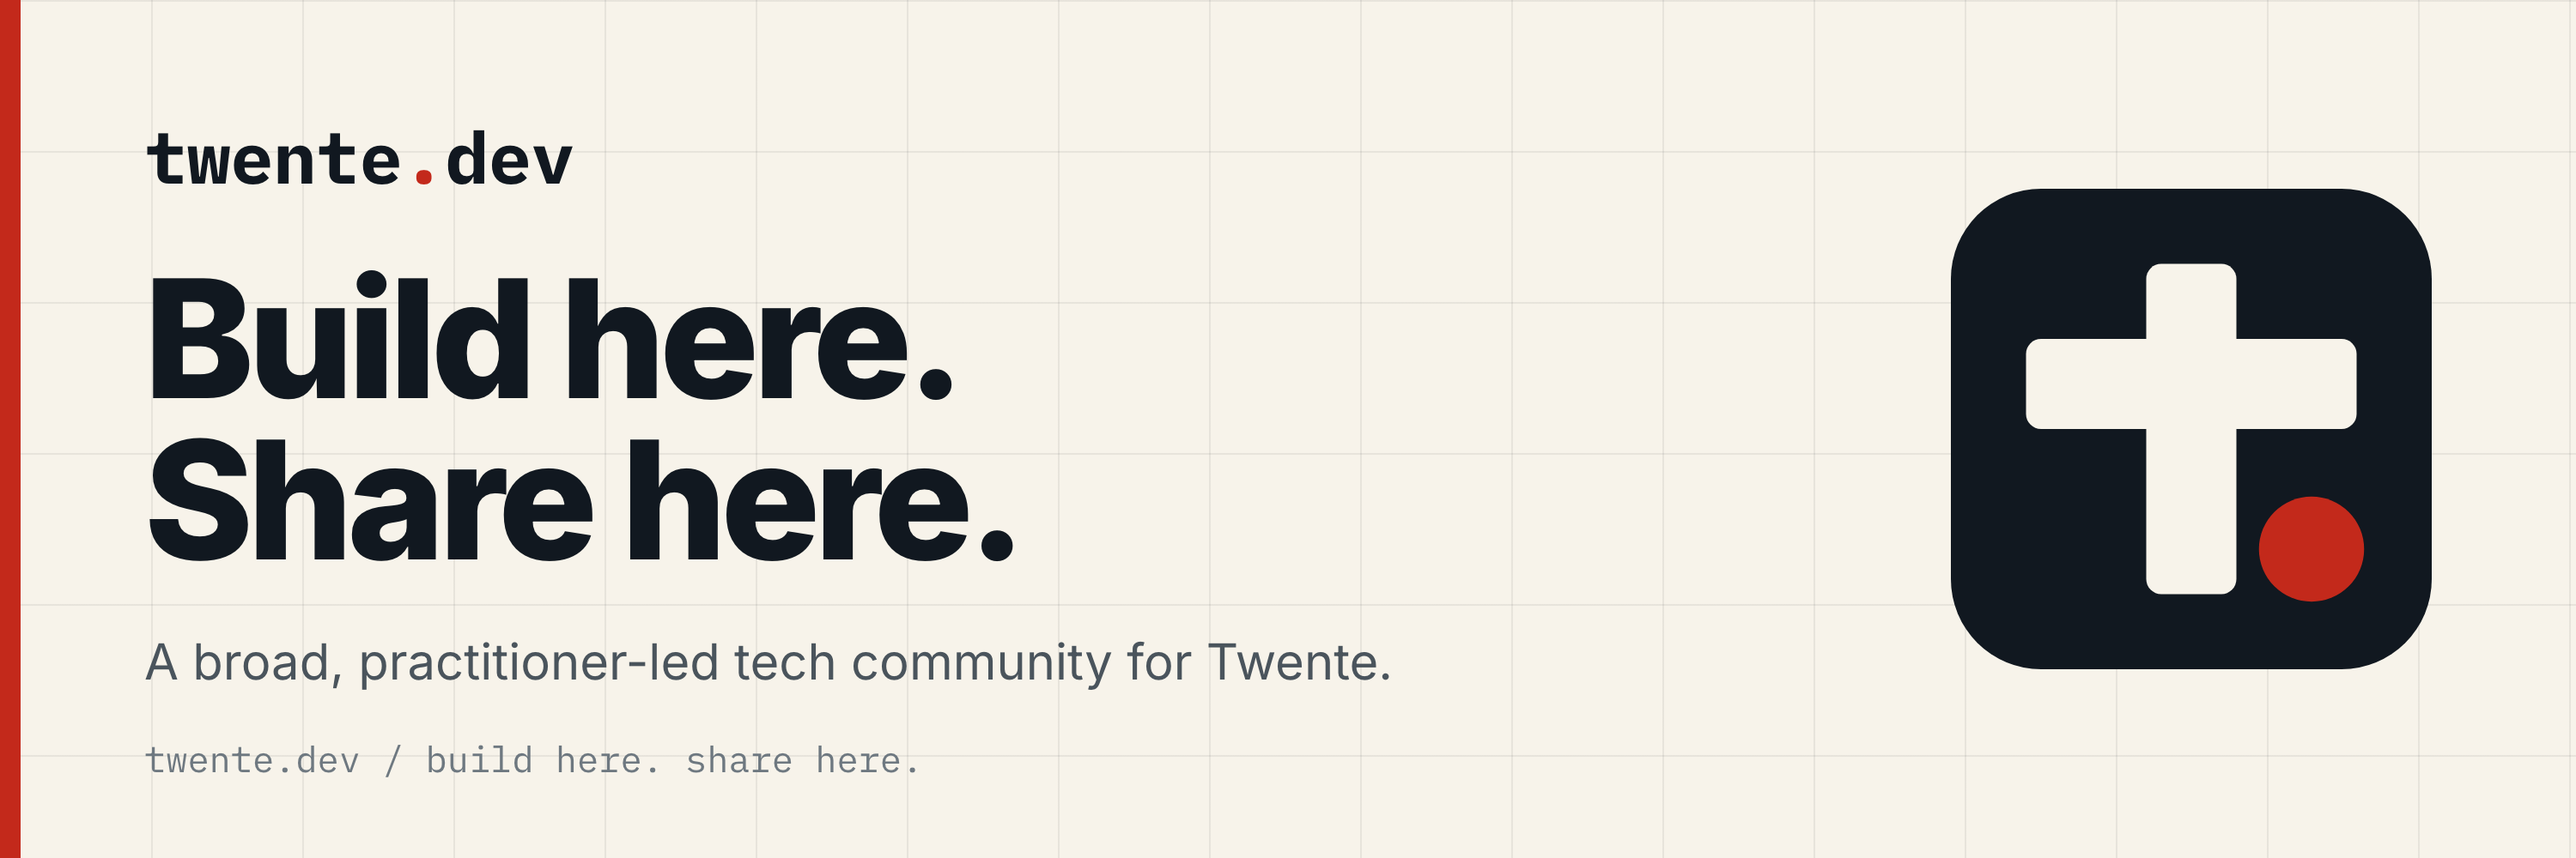
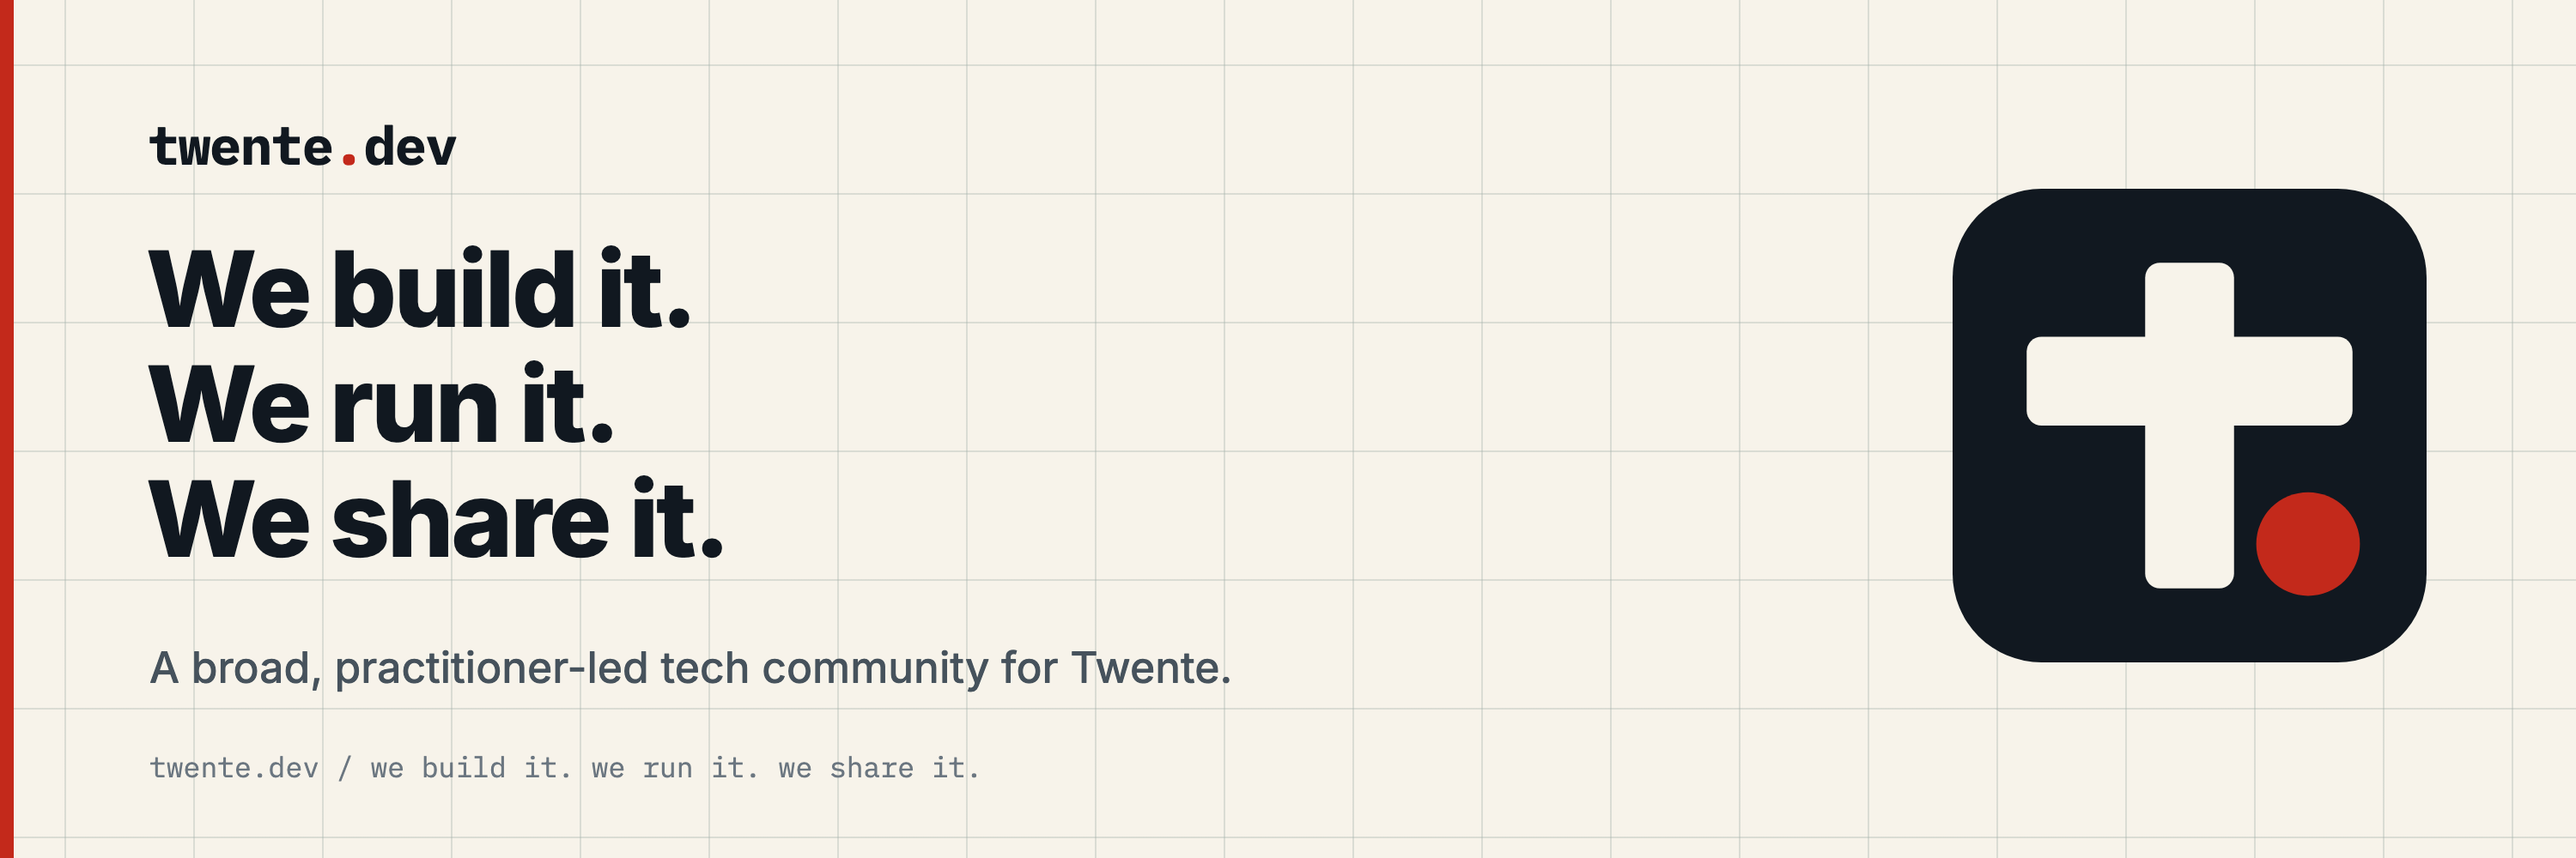
feat(brand): the motto is now "We build it. We run it. We share it."
Replaces the founding pack's "Build here. Share here." everywhere it
lives: the i18n tagline (which carries the footer running line and the
homepage title), the styleguide specimens and rules, both press pages,
the README, and ADR 0008 (amended to 1.1.0 with a revision-log entry).
The pairing rule is unchanged — the motto never stands alone, always
next to a literal description.

The six brand images with the old line baked in are re-rendered from
HTML via headless Chromium with the site's own Inter Variable and IBM
Plex Mono, at their exact original dimensions: OG/social banner,
X/Bluesky launch banner, evergreen banner, both LinkedIn banners, and
the speaker tile. Wide banners set the motto as a three-line stack.

diff --git a/src/i18n/ui.ts b/src/i18n/ui.ts
@@ -10,14 +10,15 @@
  * Content strings (articles, job descriptions) do NOT live here; they live in
  * the content collections, which carry their own per-locale fields.
  *
- * The tagline "Build here. Share here." is the brand line and stays verbatim
- * in both locales — the playbook's rule is that it is always paired with a
- * literal explanation, never left to carry meaning alone.
+ * The tagline "We build it. We run it. We share it." is the brand line and
+ * stays verbatim in both locales — the rule is that it is always paired with
+ * a literal explanation, never left to carry meaning alone. (Replaced the
+ * founding pack's "Build here. Share here." on 2026-08-11.)
  */
 
 export const nl = {
   'site.name': 'twente.dev',
-  'site.tagline': 'Build here. Share here.',
+  'site.tagline': 'We build it. We run it. We share it.',
   'site.description':
     'Onafhankelijke, practitioner-led techcommunity voor Twente. We maken lokale mensen, events en praktijkkennis beter vindbaar — van Enschede tot Almelo.',
 
@@ -184,7 +185,7 @@ export type UIKey = keyof typeof nl;
 
 export const en: Record<UIKey, string> = {
   'site.name': 'twente.dev',
-  'site.tagline': 'Build here. Share here.',
+  'site.tagline': 'We build it. We run it. We share it.',
   'site.description':
     'An independent, practitioner-led technology community for Twente. We make local people, events and practical knowledge easier to find — from Enschede to Almelo.',
 

diff --git a/docs/adrs/0008-playbook-first-launch-scope.md b/docs/adrs/0008-playbook-first-launch-scope.md
@@ -4,7 +4,7 @@
 - **Deciders**: Ryan Grippeling
 - **Date**: 2026-08-11
 - **Tags**: Scope, Strategy, Brand, Product
-- **Version**: 1.0.0
+- **Version**: 1.1.0
 
 ---
 
@@ -46,8 +46,9 @@ source of truth.
 - Trust pages ship before registration opens: code of conduct, extended privacy notice,
   governance in the about page, partner safeguards on the partners page.
 - Brand follows the pack: ink/signal-red/warm-paper/thread-grey tokens, one red signal per view,
-  lowercase wordmark with the red dot, tagline "Build here. Share here." always paired with a
-  literal explanation.
+  lowercase wordmark with the red dot, tagline "We build it. We run it. We share it." always
+  paired with a literal explanation (amended 2026-08-11; the pack's original line was
+  "Build here. Share here.").
 - The editorial pillars (Field Notes, People Who Build, Open Calls, Week in Twente Tech) exist as
   an optional `pillar` field on posts.
 
@@ -88,6 +89,7 @@ the /001 launch, when there is event data to argue from.
 
 ## Revision Log
 
-| Date       | Version | Change           |
-| ---------- | ------- | ---------------- |
-| 2026-08-11 | 1.0.0   | Initial decision |
+| Date       | Version | Change                                                    |
+| ---------- | ------- | --------------------------------------------------------- |
+| 2026-08-11 | 1.0.0   | Initial decision                                          |
+| 2026-08-11 | 1.1.0   | Tagline changed to "We build it. We run it. We share it." |

diff --git a/docs/plan/playbook-alignment.md b/docs/plan/playbook-alignment.md
@@ -30,7 +30,8 @@ contribute reachable in two clicks. Explicitly deferred: accounts, profiles, cha
 
 - **twente.dev/001 — Reconnect** · Wednesday 7 October 2026 · doors/food 18:00, programme 18:45,
   hard finish 21:30 · Enschede, venue TBA · free · capacity 100 · primarily English, Dutch welcome.
-- Tagline: **"Build here. Share here."** — always paired with a literal explanation.
+- Tagline: **"We build it. We run it. We share it."** — always paired with a literal explanation.
+  (Replaced the pack's "Build here. Share here." on 2026-08-11; ADR 0008 revision log records it.)
 - Ten-second explanation (quote verbatim, see `/en/press`).
 - Safeguards: no attendee data, no paid speaking, no exclusivity, no editorial approval rights.
 

diff --git a/README.md b/README.md
@@ -2,7 +2,7 @@
 
 Twente's practitioner-led technology community — a shared calendar, directory, archive and
 newsletter, built around numbered flagship events (first up: **twente.dev/001 — Reconnect**,
-7 October 2026, Enschede). Bilingual NL/EN. _Build here. Share here._
+7 October 2026, Enschede). Bilingual NL/EN. _We build it. We run it. We share it._
 
 A static Astro site on Cloudflare's free tier, built and deployed from Forgejo Actions. No backend,
 no database, no cookies. Total recurring cost: one domain renewal.
